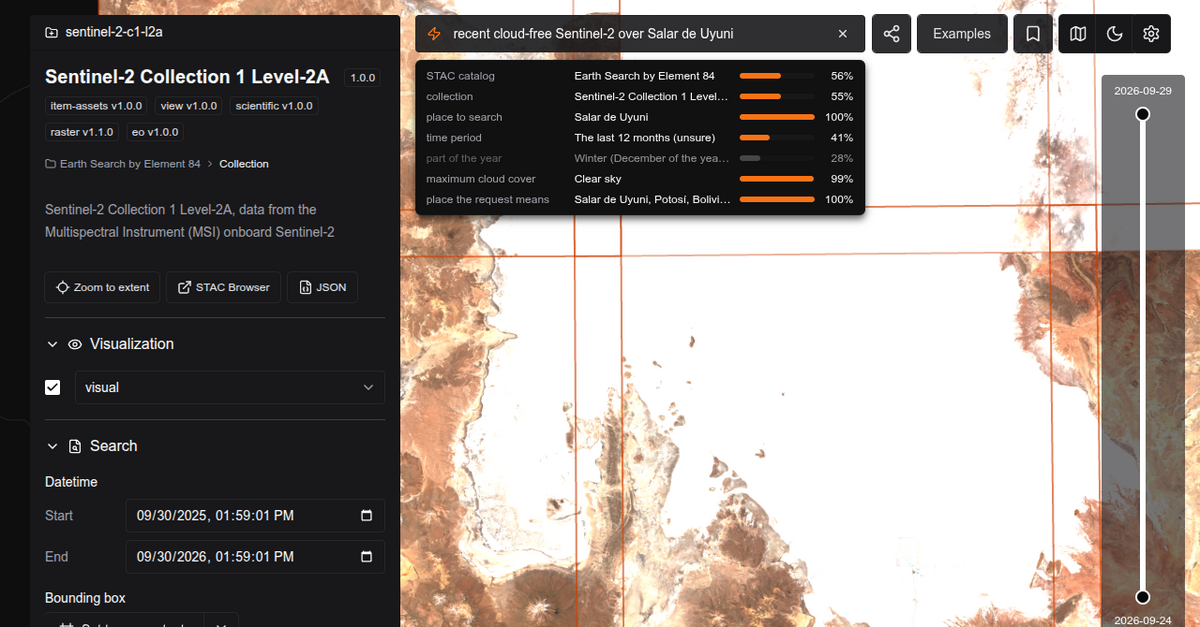
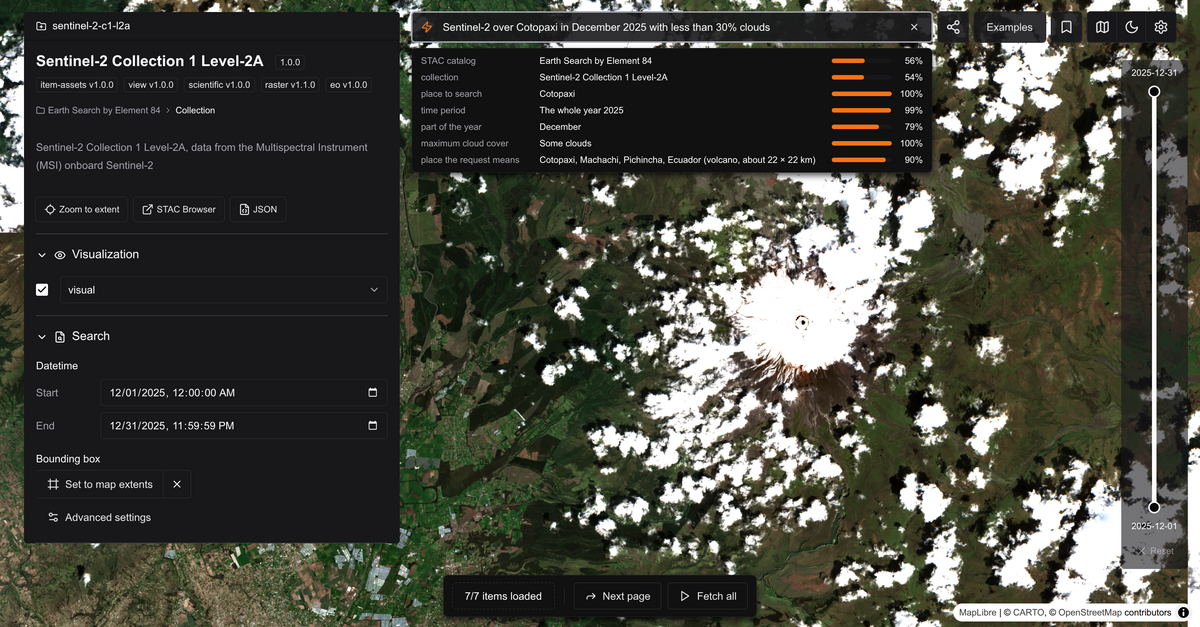
docs: Cotopaxi in December 2025 as the first example
A date with clear imagery over the volcano, and a cloud limit that keeps
that scene. The link preview image shows it too.

diff --git a/src/ZapBar.tsx b/src/ZapBar.tsx
@@ -18,7 +18,7 @@ import { KEEP, THRESHOLD } from "./zap/decide";
 import { zap, type ZapStep } from "./zap/run";
 
 const EXAMPLES = [
-  "recent cloud-free Sentinel-2 over Salar de Uyuni",
+  "Sentinel-2 over Cotopaxi in December 2025 with less than 30% clouds",
   "Swiss orthophotos of Zurich",
   "elevation of Greenland",
   "crop types around Hanover",

diff --git a/README.md b/README.md
@@ -5,7 +5,7 @@
 ![A zap request finds recent Sentinel-2 imagery of Salar de Uyuni, then SWISSIMAGE orthophotos of Zurich](docs/demo.gif)
 
 Zap mode for [stac-map](https://github.com/developmentseed/stac-map). Type one
-request, for example "recent cloud-free Sentinel-2 over Salar de Uyuni". The app
+request, for example "Sentinel-2 over Cotopaxi in December 2025 with less than 30% clouds". The app
 opens the catalog and the collection, and searches for the place, the time and
 the cloud cover.
 
